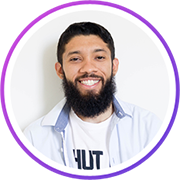
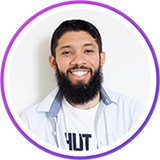
Adjusting profile figure

diff --git a/index.html b/index.html
@@ -21,7 +21,7 @@
 					<a href="http://lattes.cnpq.br/9728564907445828" target="_blank"><img src="img/lattes.png" alt="profile" width="34" height="34" ></a>
 				</div>
 				<div class="profile">
-					<img src="img/profile.png" alt="profile" width="180" height="180" >
+					<img src="img/profile.png" alt="profile" width="160" height="160" >
 				</div>
 			</div>
 		
